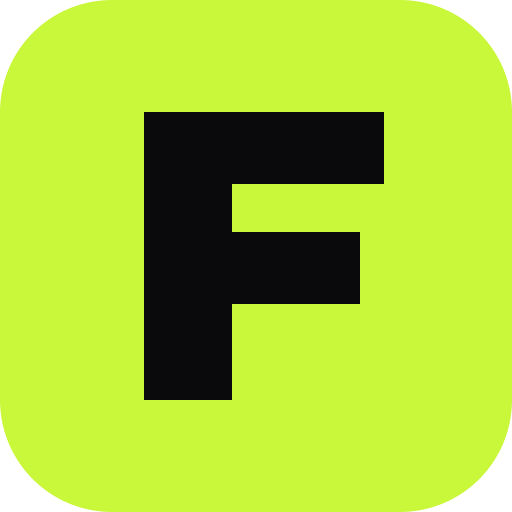
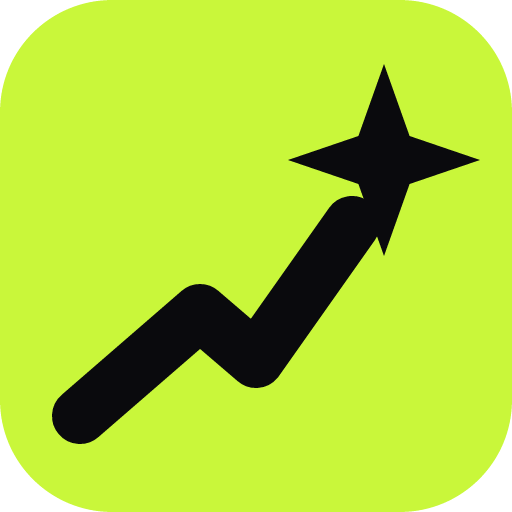
Brand: the rising-star mark — a sparkline that becomes a star
- New logo: steep ascent line with one dip (the comeback) and a pink echo
  trail, ending in a four-point star — back the rise, a star is born
- Logo/LogoMark components in the header, footer and Season Recap chrome;
  two-tone FAME/RACE wordmark
- Favicon + regenerated PWA icons carry the mark (ink on lime tile)
- Share cards get the mark and two-tone wordmark in the brand line

Claude-Session: https://claude.ai/code/session_01XAKp7zhV5GgaG2MxfZ8snX

Changed region(s): [[0.0938, 0.125, 0.9375, 0.875]]

diff --git a/apps/web/src/app/layout.tsx b/apps/web/src/app/layout.tsx
@@ -5,6 +5,7 @@ import { Archivo_Black, JetBrains_Mono, Space_Grotesk } from "next/font/google";
 import { copy, draftday, notify } from "@famerace/core";
 import { currentUser } from "@/lib/session";
 import { Countdown } from "@/components/countdown";
+import { Logo } from "@/components/logo";
 import { Monogram } from "@/components/monogram";
 import { NavLink } from "@/components/nav-link";
 import "./globals.css";
@@ -42,8 +43,8 @@ export default async function RootLayout({ children }: { children: React.ReactNo
       <body className="min-h-screen antialiased">
         <header className="sticky top-0 z-40 border-b border-edge bg-ink/90 backdrop-blur">
           <div className="mx-auto flex max-w-6xl items-center gap-6 px-4 py-3">
-            <Link href="/" className="display text-2xl text-lime">
-              FameRace
+            <Link href="/" className="transition hover:opacity-85" aria-label="FameRace home">
+              <Logo />
             </Link>
             <nav className="hidden gap-4 text-sm font-semibold uppercase tracking-wide md:flex">
               {NAV.map((item) => (
@@ -140,6 +141,9 @@ export default async function RootLayout({ children }: { children: React.ReactNo
           </div>
         </div>
         <footer className="border-t border-edge py-8 text-center text-xs text-muted">
+          <p className="mb-1 flex justify-center">
+            <Logo markClass="h-5 w-5" textClass="text-lg" />
+          </p>
           <p className="display text-lg text-chrome">{copy.tagline}</p>
           <p className="mt-2 mx-auto max-w-lg">{copy.footerLegal}</p>
           <p className="mt-2">

diff --git a/apps/web/src/components/logo.tsx b/apps/web/src/components/logo.tsx
@@ -1,0 +1,51 @@
+/* The FameRace mark: a sparkline that becomes a star. One dip (the comeback),
+   a steep ascent, and a four-point star where the line leaves the chart —
+   the whole product in one glyph: back the rise, a star is born. */
+
+export function LogoMark({ className = "h-7 w-7" }: { className?: string }) {
+  return (
+    <svg viewBox="0 0 64 64" className={className} aria-hidden fill="none">
+      {/* pink echo trail — the hype behind the rise */}
+      <path
+        d="M12 52 L26 40 L33 46 L46 26"
+        stroke="#ff3d8d"
+        strokeWidth="5"
+        strokeLinecap="round"
+        strokeLinejoin="round"
+        opacity="0.55"
+      />
+      {/* the ascent */}
+      <path
+        d="M8 56 L24 42 L31 48 L45 28"
+        stroke="#c9f73a"
+        strokeWidth="6.5"
+        strokeLinecap="round"
+        strokeLinejoin="round"
+      />
+      {/* the star it becomes */}
+      <path
+        d="M50 4 L53.4 13.6 L63 17 L53.4 20.4 L50 30 L46.6 20.4 L37 17 L46.6 13.6 Z"
+        fill="#c9f73a"
+        style={{ filter: "drop-shadow(0 0 6px rgb(201 247 58 / 0.7))" }}
+      />
+    </svg>
+  );
+}
+
+export function Logo({
+  markClass = "h-7 w-7",
+  textClass = "text-2xl",
+}: {
+  markClass?: string;
+  textClass?: string;
+}) {
+  return (
+    <span className="inline-flex items-center gap-2">
+      <LogoMark className={markClass} />
+      <span className={`display leading-none tracking-tight ${textClass}`}>
+        <span className="text-chalk">FAME</span>
+        <span className="text-lime">RACE</span>
+      </span>
+    </span>
+  );
+}

diff --git a/packages/core/src/modules/cards.ts b/packages/core/src/modules/cards.ts
@@ -63,8 +63,13 @@ function renderSvg(content: CardContent): string {
   <text x="80" y="${130 + headlineSize + 40}" font-family="Arial Narrow, Arial, sans-serif" font-size="${headlineSize}" font-weight="900" letter-spacing="1" fill="${COLORS.chalk}">${esc(headline.toUpperCase())}</text>
   ${sub ? `<text x="80" y="${130 + headlineSize + 100}" font-family="Arial, sans-serif" font-size="30" fill="${COLORS.muted}">${esc(sub)}</text>` : ""}
   ${statBlocks}
-  <text x="80" y="${H - 56}" font-family="Arial Narrow, Arial, sans-serif" font-size="30" font-weight="900" letter-spacing="3" fill="${COLORS.chalk}">FAMERACE</text>
-  <text x="245" y="${H - 56}" font-family="Arial, sans-serif" font-size="26" fill="${accent}">— ${esc(footer ?? "Back the rise.")}</text>
+  <!-- brand: the sparkline that becomes a star -->
+  <g transform="translate(78 ${H - 92})">
+    <path d="M2 34 L12 25 L17 29 L26 17" stroke="${COLORS.lime}" stroke-width="4.5" stroke-linecap="round" stroke-linejoin="round" fill="none"/>
+    <path d="M30 2 L32.2 8.3 L38.5 10.5 L32.2 12.7 L30 19 L27.8 12.7 L21.5 10.5 L27.8 8.3 Z" fill="${COLORS.lime}"/>
+  </g>
+  <text x="128" y="${H - 56}" font-family="Arial Narrow, Arial, sans-serif" font-size="30" font-weight="900" letter-spacing="3" fill="${COLORS.chalk}">FAME<tspan fill="${COLORS.lime}">RACE</tspan></text>
+  <text x="330" y="${H - 56}" font-family="Arial, sans-serif" font-size="26" fill="${accent}">— ${esc(footer ?? "Back the rise.")}</text>
 </svg>`;
 }
 

diff --git a/apps/web/src/components/recap-story.tsx b/apps/web/src/components/recap-story.tsx
@@ -4,6 +4,7 @@ import Link from "next/link";
 import { useCallback, useEffect, useMemo, useState } from "react";
 import { CountUp } from "@/components/count-up";
 import { Confetti } from "@/components/confetti";
+import { LogoMark } from "@/components/logo";
 import { Monogram, gradientPair } from "@/components/monogram";
 import { RecapVideoButton } from "@/components/recap-video";
 
@@ -95,7 +96,9 @@ export function RecapStory({ slides, username }: { slides: RecapSlide[]; usernam
         ))}
       </div>
       <div className="flex items-center justify-between px-4 pt-3 text-xs uppercase tracking-widest text-muted">
-        <span className="display text-sm text-lime">FameRace · Season 1</span>
+        <span className="display inline-flex items-center gap-1.5 text-sm text-lime">
+          <LogoMark className="h-4 w-4" /> FameRace · Season 1
+        </span>
         <Link href="/roster" className="rounded px-2 py-1 hover:text-chalk" aria-label="Close recap">
           ✕
         </Link>

diff --git a/packages/core/test/social.test.ts b/packages/core/test/social.test.ts
@@ -174,7 +174,8 @@ describe("roster + share cards", () => {
     for (const [template, subject, viewer] of cases) {
       const { svg } = await cardsMod.generateCard(template as never, subject, viewer);
       expect(svg, template).toContain("<svg");
-      expect(svg, template).toContain("FAMERACE");
+      // Brand wordmark is split for the two-tone treatment: FAME<tspan>RACE
+      expect(svg, template).toMatch(/FAME<tspan[^>]*>RACE<\/tspan>/);
     }
     expect(await prisma.shareCard.count()).toBe(cases.length);
   });
